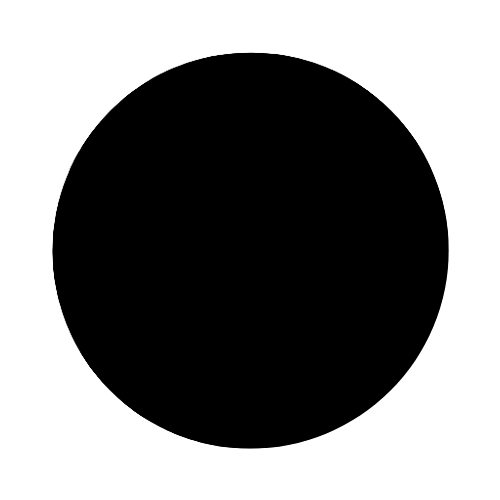
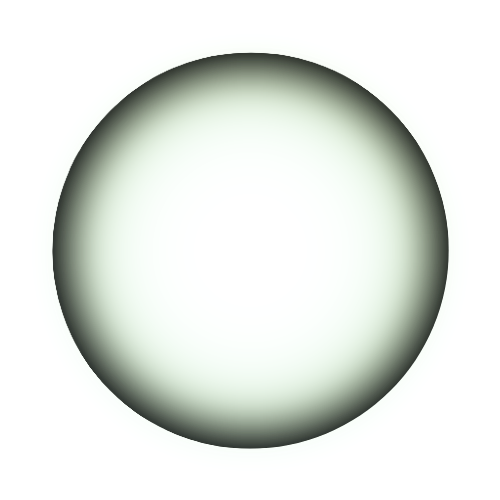
ikonien shadow vaihdettu kuplamaiseksi

diff --git a/frontend/src/assets/icons.js b/frontend/src/assets/icons.js
@@ -3,6 +3,8 @@ import L from "leaflet"
 const ICONSIZE = [64, 64]
 const ICONANCHOR = [32, 32]
 const POPUPANCHOR = [0, -16]
+const SHADOWSIZE = [80, 80]
+const SHADOWICONANCHOR = [39, 39]
 
 export const categoryMap = {
   1: "amerikkalainen_jalkapallo",
@@ -66,8 +68,8 @@ const ClubIconGroup = {
     iconAnchor: ICONANCHOR, // Minkä verran offsettiä painalluskohdasta
     popupAnchor: POPUPANCHOR, // -""-
     shadowUrl: "/lajit/yhteistyotausta.png", // Varjon polku
-    shadowSize: [70, 70], // Varjon koko
-    shadowAnchor: [34, 34], // Varjon ankkuripiste
+    shadowSize: SHADOWSIZE, // Varjon koko
+    shadowAnchor: SHADOWICONANCHOR, // Varjon ankkuripiste
   }),
 
   joensuun_pallopojat: L.icon({
@@ -76,8 +78,8 @@ const ClubIconGroup = {
     iconAnchor: ICONANCHOR,
     popupAnchor: POPUPANCHOR,
     shadowUrl: "/lajit/yhteistyotausta.png", // Varjon polku
-    shadowSize: [70, 70], // Varjon koko
-    shadowAnchor: [34, 34], // Varjon ankkuripiste
+    shadowSize: SHADOWSIZE, // Varjon koko
+    shadowAnchor: SHADOWICONANCHOR, // Varjon ankkuripiste
   }),
 
   joensuun_jalkapalloseura: L.icon({
@@ -86,8 +88,8 @@ const ClubIconGroup = {
     iconAnchor: ICONANCHOR,
     popupAnchor: POPUPANCHOR,
     shadowUrl: "/lajit/yhteistyotausta.png", // Varjon polku
-    shadowSize: [70, 70], // Varjon koko
-    shadowAnchor: [34, 34], // Varjon ankkuripiste
+    shadowSize: SHADOWSIZE, // Varjon koko
+    shadowAnchor: SHADOWICONANCHOR, // Varjon ankkuripiste
   }),
 }
 
@@ -98,8 +100,8 @@ const Icongroup = {
     iconAnchor: ICONANCHOR, // Minkä verran offsettiä painalluskohdasta
     popupAnchor: POPUPANCHOR, // -""-
     shadowUrl: "/lajit/uusintaustapalloMusta.png", // Varjon polku
-    shadowSize: [70, 70], // Varjon koko
-    shadowAnchor: [34, 34], // Varjon ankkuripiste
+    shadowSize: SHADOWSIZE, // Varjon koko
+    shadowAnchor: SHADOWICONANCHOR, // Varjon ankkuripiste
   }),
 
   avantouinti: L.icon({
@@ -108,8 +110,8 @@ const Icongroup = {
     iconAnchor: ICONANCHOR,
     popupAnchor: POPUPANCHOR,
     shadowUrl: "/lajit/uusintaustapalloMusta.png", // Varjon polku
-    shadowSize: [70, 70], // Varjon koko
-    shadowAnchor: [34, 34], // Varjon ankkuripiste
+    shadowSize: SHADOWSIZE, // Varjon koko
+    shadowAnchor: SHADOWICONANCHOR, // Varjon ankkuripiste
   }),
 
   biljardi: L.icon({
@@ -118,8 +120,8 @@ const Icongroup = {
     iconAnchor: ICONANCHOR,
     popupAnchor: POPUPANCHOR,
     shadowUrl: "/lajit/uusintaustapalloMusta.png", // Varjon polku
-    shadowSize: [70, 70], // Varjon koko
-    shadowAnchor: [34, 34], // Varjon ankkuripiste
+    shadowSize: SHADOWSIZE, // Varjon koko
+    shadowAnchor: SHADOWICONANCHOR, // Varjon ankkuripiste
   }),
 
   golf: L.icon({
@@ -128,8 +130,8 @@ const Icongroup = {
     iconAnchor: ICONANCHOR,
     popupAnchor: POPUPANCHOR,
     shadowUrl: "/lajit/uusintaustapalloMusta.png", // Varjon polku
-    shadowSize: [70, 70], // Varjon koko
-    shadowAnchor: [34, 34], // Varjon ankkuripiste
+    shadowSize: SHADOWSIZE, // Varjon koko
+    shadowAnchor: SHADOWICONANCHOR, // Varjon ankkuripiste
   }),
 
   jaakiekko: L.icon({
@@ -138,8 +140,8 @@ const Icongroup = {
     iconAnchor: ICONANCHOR,
     popupAnchor: POPUPANCHOR,
     shadowUrl: "/lajit/uusintaustapalloMusta.png", // Varjon polku
-    shadowSize: [70, 70], // Varjon koko
-    shadowAnchor: [34, 34], // Varjon ankkuripiste
+    shadowSize: SHADOWSIZE, // Varjon koko
+    shadowAnchor: SHADOWICONANCHOR, // Varjon ankkuripiste
   }),
 
   jalkapallo: L.icon({
@@ -148,8 +150,8 @@ const Icongroup = {
     iconAnchor: ICONANCHOR,
     popupAnchor: POPUPANCHOR,
     shadowUrl: "/lajit/uusintaustapalloMusta.png", // Varjon polku
-    shadowSize: [70, 70], // Varjon koko
-    shadowAnchor: [34, 34], // Varjon ankkuripiste
+    shadowSize: SHADOWSIZE, // Varjon koko
+    shadowAnchor: SHADOWICONANCHOR, // Varjon ankkuripiste
   }),
 
   juoksu: L.icon({
@@ -158,8 +160,8 @@ const Icongroup = {
     iconAnchor: ICONANCHOR,
     popupAnchor: POPUPANCHOR,
     shadowUrl: "/lajit/uusintaustapalloMusta.png", // Varjon polku
-    shadowSize: [70, 70], // Varjon koko
-    shadowAnchor: [34, 34], // Varjon ankkuripiste
+    shadowSize: SHADOWSIZE, // Varjon koko
+    shadowAnchor: SHADOWICONANCHOR, // Varjon ankkuripiste
   }),
 
   keilaus: L.icon({
@@ -168,8 +170,8 @@ const Icongroup = {
     iconAnchor: ICONANCHOR,
     popupAnchor: POPUPANCHOR,
     shadowUrl: "/lajit/uusintaustapalloMusta.png", // Varjon polku
-    shadowSize: [70, 70], // Varjon koko
-    shadowAnchor: [34, 34], // Varjon ankkuripiste
+    shadowSize: SHADOWSIZE, // Varjon koko
+    shadowAnchor: SHADOWICONANCHOR, // Varjon ankkuripiste
   }),
 
   koiralenkki: L.icon({
@@ -178,8 +180,8 @@ const Icongroup = {
     iconAnchor: ICONANCHOR,
     popupAnchor: POPUPANCHOR,
     shadowUrl: "/lajit/uusintaustapalloMusta.png", // Varjon polku
-    shadowSize: [70, 70], // Varjon koko
-    shadowAnchor: [34, 34], // Varjon ankkuripiste
+    shadowSize: SHADOWSIZE, // Varjon koko
+    shadowAnchor: SHADOWICONANCHOR, // Varjon ankkuripiste
   }),
 
   koripallo: L.icon({
@@ -188,8 +190,8 @@ const Icongroup = {
     iconAnchor: ICONANCHOR,
     popupAnchor: POPUPANCHOR,
     shadowUrl: "/lajit/uusintaustapalloMusta.png", // Varjon polku
-    shadowSize: [70, 70], // Varjon koko
-    shadowAnchor: [34, 34], // Varjon ankkuripiste
+    shadowSize: SHADOWSIZE, // Varjon koko
+    shadowAnchor: SHADOWICONANCHOR, // Varjon ankkuripiste
   }),
 
   lentopallo: L.icon({
@@ -198,8 +200,8 @@ const Icongroup = {
     iconAnchor: ICONANCHOR,
     popupAnchor: POPUPANCHOR,
     shadowUrl: "/lajit/uusintaustapalloMusta.png", // Varjon polku
-    shadowSize: [70, 70], // Varjon koko
-    shadowAnchor: [34, 34], // Varjon ankkuripiste
+    shadowSize: SHADOWSIZE, // Varjon koko
+    shadowAnchor: SHADOWICONANCHOR, // Varjon ankkuripiste
   }),
 
   nyrkkeily: L.icon({
@@ -208,8 +210,8 @@ const Icongroup = {
     iconAnchor: ICONANCHOR,
     popupAnchor: POPUPANCHOR,
     shadowUrl: "/lajit/uusintaustapalloMusta.png", // Varjon polku
-    shadowSize: [70, 70], // Varjon koko
-    shadowAnchor: [34, 34], // Varjon ankkuripiste
+    shadowSize: SHADOWSIZE, // Varjon koko
+    shadowAnchor: SHADOWICONANCHOR, // Varjon ankkuripiste
   }),
 
   padel: L.icon({
@@ -218,8 +220,8 @@ const Icongroup = {
     iconAnchor: ICONANCHOR,
     popupAnchor: POPUPANCHOR,
     shadowUrl: "/lajit/uusintaustapalloMusta.png", // Varjon polku
-    shadowSize: [70, 70], // Varjon koko
-    shadowAnchor: [34, 34], // Varjon ankkuripiste
+    shadowSize: SHADOWSIZE, // Varjon koko
+    shadowAnchor: SHADOWICONANCHOR, // Varjon ankkuripiste
   }),
 
   pesapallo: L.icon({
@@ -228,8 +230,8 @@ const Icongroup = {
     iconAnchor: ICONANCHOR,
     popupAnchor: POPUPANCHOR,
     shadowUrl: "/lajit/uusintaustapalloMusta.png", // Varjon polku
-    shadowSize: [70, 70], // Varjon koko
-    shadowAnchor: [34, 34], // Varjon ankkuripiste
+    shadowSize: SHADOWSIZE, // Varjon koko
+    shadowAnchor: SHADOWICONANCHOR, // Varjon ankkuripiste
   }),
 
   pihapelit: L.icon({
@@ -238,8 +240,8 @@ const Icongroup = {
     iconAnchor: ICONANCHOR,
     popupAnchor: POPUPANCHOR,
     shadowUrl: "/lajit/uusintaustapalloMusta.png", // Varjon polku
-    shadowSize: [70, 70], // Varjon koko
-    shadowAnchor: [34, 34], // Varjon ankkuripiste
+    shadowSize: SHADOWSIZE, // Varjon koko
+    shadowAnchor: SHADOWICONANCHOR, // Varjon ankkuripiste
   }),
 
   pingis: L.icon({
@@ -248,8 +250,8 @@ const Icongroup = {
     iconAnchor: ICONANCHOR,
     popupAnchor: POPUPANCHOR,
     shadowUrl: "/lajit/uusintaustapalloMusta.png", // Varjon polku
-    shadowSize: [70, 70], // Varjon koko
-    shadowAnchor: [34, 34], // Varjon ankkuripiste
+    shadowSize: SHADOWSIZE, // Varjon koko
+    shadowAnchor: SHADOWICONANCHOR, // Varjon ankkuripiste
   }),
 
   puntti: L.icon({
@@ -258,8 +260,8 @@ const Icongroup = {
     iconAnchor: ICONANCHOR,
     popupAnchor: POPUPANCHOR,
     shadowUrl: "/lajit/uusintaustapalloMusta.png", // Varjon polku
-    shadowSize: [70, 70], // Varjon koko
-    shadowAnchor: [34, 34], // Varjon ankkuripiste
+    shadowSize: SHADOWSIZE, // Varjon koko
+    shadowAnchor: SHADOWICONANCHOR, // Varjon ankkuripiste
   }),
 
   pyoraily: L.icon({
@@ -268,8 +270,8 @@ const Icongroup = {
     iconAnchor: ICONANCHOR,
     popupAnchor: POPUPANCHOR,
     shadowUrl: "/lajit/uusintaustapalloMusta.png", // Varjon polku
-    shadowSize: [70, 70], // Varjon koko
-    shadowAnchor: [34, 34], // Varjon ankkuripiste
+    shadowSize: SHADOWSIZE, // Varjon koko
+    shadowAnchor: SHADOWICONANCHOR, // Varjon ankkuripiste
   }),
 
   sulkapallo: L.icon({
@@ -278,8 +280,8 @@ const Icongroup = {
     iconAnchor: ICONANCHOR,
     popupAnchor: POPUPANCHOR,
     shadowUrl: "/lajit/uusintaustapalloMusta.png", // Varjon polku
-    shadowSize: [70, 70], // Varjon koko
-    shadowAnchor: [34, 34], // Varjon ankkuripiste
+    shadowSize: SHADOWSIZE, // Varjon koko
+    shadowAnchor: SHADOWICONANCHOR, // Varjon ankkuripiste
   }),
 
   tennis: L.icon({
@@ -288,8 +290,8 @@ const Icongroup = {
     iconAnchor: ICONANCHOR,
     popupAnchor: POPUPANCHOR,
     shadowUrl: "/lajit/uusintaustapalloMusta.png", // Varjon polku
-    shadowSize: [70, 70], // Varjon koko
-    shadowAnchor: [34, 34], // Varjon ankkuripiste
+    shadowSize: SHADOWSIZE, // Varjon koko
+    shadowAnchor: SHADOWICONANCHOR, // Varjon ankkuripiste
   }),
 
   uinti: L.icon({
@@ -298,8 +300,8 @@ const Icongroup = {
     iconAnchor: ICONANCHOR,
     popupAnchor: POPUPANCHOR,
     shadowUrl: "/lajit/uusintaustapalloMusta.png", // Varjon polku
-    shadowSize: [70, 70], // Varjon koko
-    shadowAnchor: [34, 34], // Varjon ankkuripiste
+    shadowSize: SHADOWSIZE, // Varjon koko
+    shadowAnchor: SHADOWICONANCHOR, // Varjon ankkuripiste
   }),
 }
 

diff --git a/backend/controllers/register.js b/backend/controllers/register.js
@@ -171,14 +171,15 @@ registerRouter.post("/sendOtp", async (req, res) => {
   try {
     const verificationCode = generateVerificationCode()
 
+    let success = null
     if (language === "FI") {
-      const success = await sendEmail(
+      success = await sendEmail(
         email,
         "Sähköpostin vahvistus",
         `Vahvistuskoodisi on: ${verificationCode}`
       )
     } else {
-      const success = await sendEmail(
+      success = await sendEmail(
         email,
         "Email validation",
         `OTP code: ${verificationCode}`

diff --git a/frontend/src/index.css b/frontend/src/index.css
@@ -60,7 +60,7 @@ button:focus-visible {
 }
 
 .leaflet-shadow-pane {
-  opacity: 0.1 !important;
+  opacity: 0.5 !important;
 }
 
 .header-back-btn:hover {
